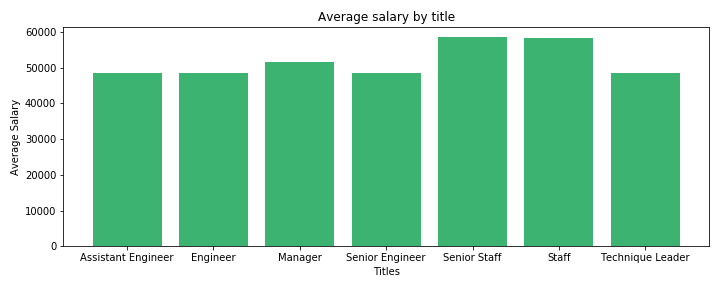
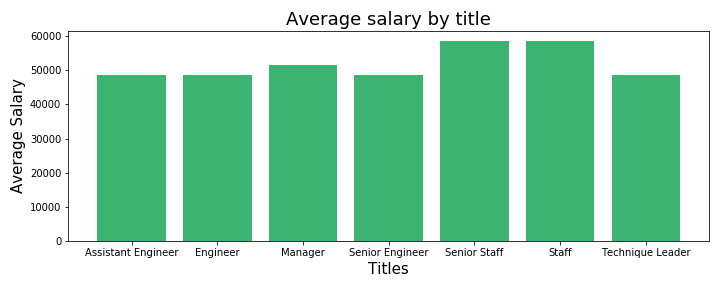
formatting bar chart

diff --git a/README.md b/README.md
@@ -15,5 +15,5 @@
 ![Histogram](Images/histogram_salary_ranges.png)
 
 ## Bar chart of Average Salary by Title
-![barchart](Images/avg_salary_title.png)
+![barchart_avgsalary](Images/avg_salary_title.png)
 
